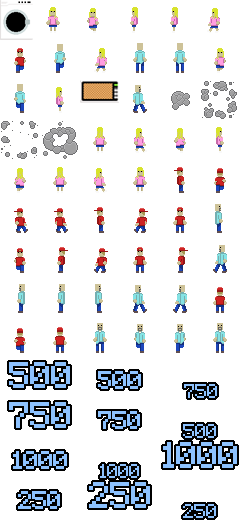
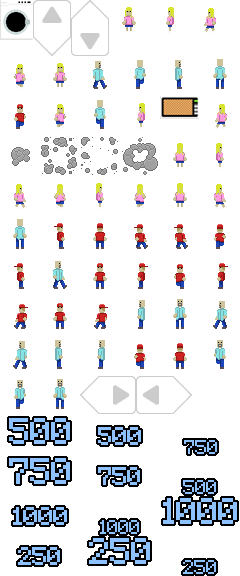
Started the refactoring of code

diff --git a/src/components/views/Game.vue b/src/components/views/Game.vue
@@ -9,99 +9,53 @@
 </template>
 
 <script>
-  import 'pixi'
-  import 'p2'
-  import Phaser from 'phaser'
-  import create from 'components/phaser/create'
-  import preload from 'components/phaser/preload'
-  import update from 'components/phaser/update'
-  import levelConfig from '@/assets/levels.json'
-  import { mapGetters, mapMutations } from 'vuex'
+import 'pixi'
+import 'p2'
+import phaser from 'compponents/phaser'
+import levelConfig from '@/assets/levels.json'
+import { mapGetters, mapMutations } from 'vuex'
 
-  export default {
-    name: 'game',
-    mounted () {
-      this.initTime = Math.floor(Date.now());
-      this.levelConfig = levelConfig.levels[this.level];
-      let self = this
-      if (this.game == null) {
-        this.game = new Phaser.Game(600, 560, Phaser.AUTO, this.$el)
-        this.game.state.add('preload', {
-          preload: function() {
-            preload(this, self)
-          },
-          create: function() {
-            let startNowDifference = Math.floor(Date.now()) - self.initTime;
-            let holdTime = 4000 - startNowDifference;
-            self.holdCreate(() => {
-              self.showGame = true;
-              this.game.state.start('game')
-            }, (holdTime > 0 ? holdTime : 0));
-          },
-        })
-        this.game.state.add('game', {
-          create: function() {
-            let timer = this.game.time.create(false);
-
-            //  Set a TimerEvent to occur after 2 seconds
-            timer.loop(1000, () => {
-              self.time++;
-              if (self.time == 60) {
-                timer.stop();
-                self.finished();
-              }
-            }, this);
-
-            //  Start the timer running - this is important!
-            //  It won't start automatically, allowing you to hook it to button events and the like.
-            timer.start();
-            create(this, self);
-          },
-          update: function() {
-            update(this, self)
-          },
-        })
-        this.game.state.start('preload');
+export default {
+  mounted () {
+    this.game = phaser.init();
+  },
+  methods: {
+    ...mapMutations({
+      changeRoute: 'router/change'
+    }),
+    finished() {
+      this.game.paused = true;
+      this.$store.commit('updateScore', this.score);
+      if (this.level === Object.keys(levelConfig.levels).length) {
+        this.changeRoute({name: 'finish'});
+      } else {
+        this.changeRoute({name: 'video', params: {level: this.level}});
       }
     },
-
-    methods: {
-      ...mapMutations({
-        changeRoute: 'router/change'
-      }),
-      finished() {
-        this.game.paused = true;
-        this.$store.commit('updateScore', this.score);
-        if (this.level === Object.keys(levelConfig.levels).length) {
-          this.changeRoute({name: 'finish'});
-        } else {
-          this.changeRoute({name: 'video', params: {level: this.level}});
-        }
-      },
-      holdCreate(callback, time) {
-        setTimeout(callback, time);
-      },
+    holdCreate(callback, time) {
+      setTimeout(callback, time);
     },
-    destroyed() {
-      this.game.destroy()
-    },
-    computed: {
-      ...mapGetters({
-        selectedCharacter: 'character',
-        routerParams: 'router/params'
-      }),
-      level() {
-        return this.routerParams.level;
-      }
-    },
-    data: () => ({
-      game: null,
-      score: 0,
-      levelConfig: false,
-      showGame: false,
-      time: 0
-    })
-  }
+  },
+  destroyed() {
+    this.game.destroy()
+  },
+  computed: {
+    ...mapGetters({
+      selectedCharacter: 'character',
+      routerParams: 'router/params'
+    }),
+    level() {
+      return this.routerParams.level;
+    }
+  },
+  data: () => ({
+    game: null,
+    score: 0,
+    levelConfig: false,
+    showGame: false,
+    time: 0
+  })
+}
 </script>
 
 <style lang="scss" scoped>

diff --git a/src/components/phaser/index.js b/src/components/phaser/index.js
@@ -1,0 +1,53 @@
+import create from 'components/phaser/create'
+import preload from 'components/phaser/preload'
+import update from 'components/phaser/update'
+
+export default {
+  init() {
+    console.log('stuff')
+  }
+}
+
+// this.initTime = Math.floor(Date.now());
+// this.levelConfig = levelConfig.levels[this.level];
+// let self = this
+// if (this.game == null) {
+//   this.gameObject = {};
+//   this.game = new Phaser.Game(600, 560, Phaser.AUTO, this.$el)
+//   this.game.state.add('preload', {
+//     preload: function() {
+//       preload(this, self, self.gameObject)
+//     },
+//     create: function() {
+//       let startNowDifference = Math.floor(Date.now()) - self.initTime;
+//       let holdTime = 4000 - startNowDifference;
+//       self.holdCreate(() => {
+//         self.showGame = true;
+//         this.game.state.start('game')
+//       }, (holdTime > 0 ? holdTime : 0));
+//     },
+//   })
+//   this.game.state.add('game', {
+//     create: function() {
+//       let timer = this.game.time.create(false);
+
+//       //  Set a TimerEvent to occur after 2 seconds
+//       timer.loop(1000, () => {
+//         self.time++;
+//         if (self.time == 60) {
+//           timer.stop();
+//           self.finished();
+//         }
+//       }, this);
+
+//       //  Start the timer running - this is important!
+//       //  It won't start automatically, allowing you to hook it to button events and the like.
+//       timer.start();
+//       create(this, self, self.gameObject);
+//     },
+//     update: function() {
+//       update(this, self, self.gameObject)
+//     },
+//   })
+//   this.game.state.start('preload');
+// }

diff --git a/src/components/phaser/Character.js b/src/components/phaser/Character.js
@@ -28,9 +28,29 @@ export default class {
     this.sprite.animations.add('walk' + Phaser.UP, getFrameKeys(this.character + '/up', this.phaser.cache.getFrameData('objects')));
     this.sprite.animations.add('walk' + Phaser.DOWN, getFrameKeys(this.character + '/down', this.phaser.cache.getFrameData('objects')));
     this.phaser.physics.arcade.enable(this.sprite);
+    this.createDPad();
+    console.log(this);
     this.move(Phaser.DOWN)
   }
+
+  createDPad() {
+    var dPadPosition = {
+      y: this.phaser.game.world.height - 140,
+      x: this.phaser.game.world.width - 140,
+    }
+    this.dPad = {
+      left: this.phaser.add.button(dPadPosition.y + 40, dPadPosition.x + 40, 'objects', function() {console.log('something')}, null, 'd-pad/left', 'd-pad/left')
+    }
+    console.log(this.dPad)
+
+    this.dPad.left.onInputUp.add(() => {
+      console.log('lala');
+    },this)
+  }
   update() {
+    if (this.dPad.left.game.input.activePointer.isDown) {
+      console.log(this.dPad.left.game.input.activePointer)
+    }
     if (this.activateCollision()) {
       this.sprite.animations.stop();
     }

diff --git a/src/components/phaser/create.js b/src/components/phaser/create.js
@@ -1,20 +1,20 @@
 import Phaser from 'phaser'
 
-export default function create(phaser, vGame) {
+export default function create(phaser, vGame, gameObject) {
   phaser.physics.startSystem(Phaser.Physics.ARCADE);
 
-  for (var i = 0; i <= vGame.lifeCycleListeners.length - 1; i++) {
-    vGame.lifeCycleListeners[i].create();
+  for (var i = 0; i <= gameObject.lifeCycleListeners.length - 1; i++) {
+    gameObject.lifeCycleListeners[i].create();
   }
 
-  vGame.bonusCollection.onScore = (score) => {
+  gameObject.bonusCollection.onScore = (score) => {
     vGame.score += score;
   };
 
-  vGame.switchCollection.onAllOff = () => {
+  gameObject.switchCollection.onAllOff = () => {
     vGame.finished();
   };
-  vGame.switchCollection.onScore = (score) => {
+  gameObject.switchCollection.onScore = (score) => {
     vGame.score += score;
   };
 }

diff --git a/src/components/phaser/update.js b/src/components/phaser/update.js
@@ -1,7 +1,7 @@
 import Phaser from 'phaser'
 
-export default function update(phaser, vGame) {
-  for (var i = 0; i <= vGame.lifeCycleListeners.length - 1; i++) {
-    vGame.lifeCycleListeners[i].update();
+export default function update(phaser, vGame, gameObject) {
+  for (var i = 0; i <= gameObject.lifeCycleListeners.length - 1; i++) {
+    gameObject.lifeCycleListeners[i].update();
   }
 }
